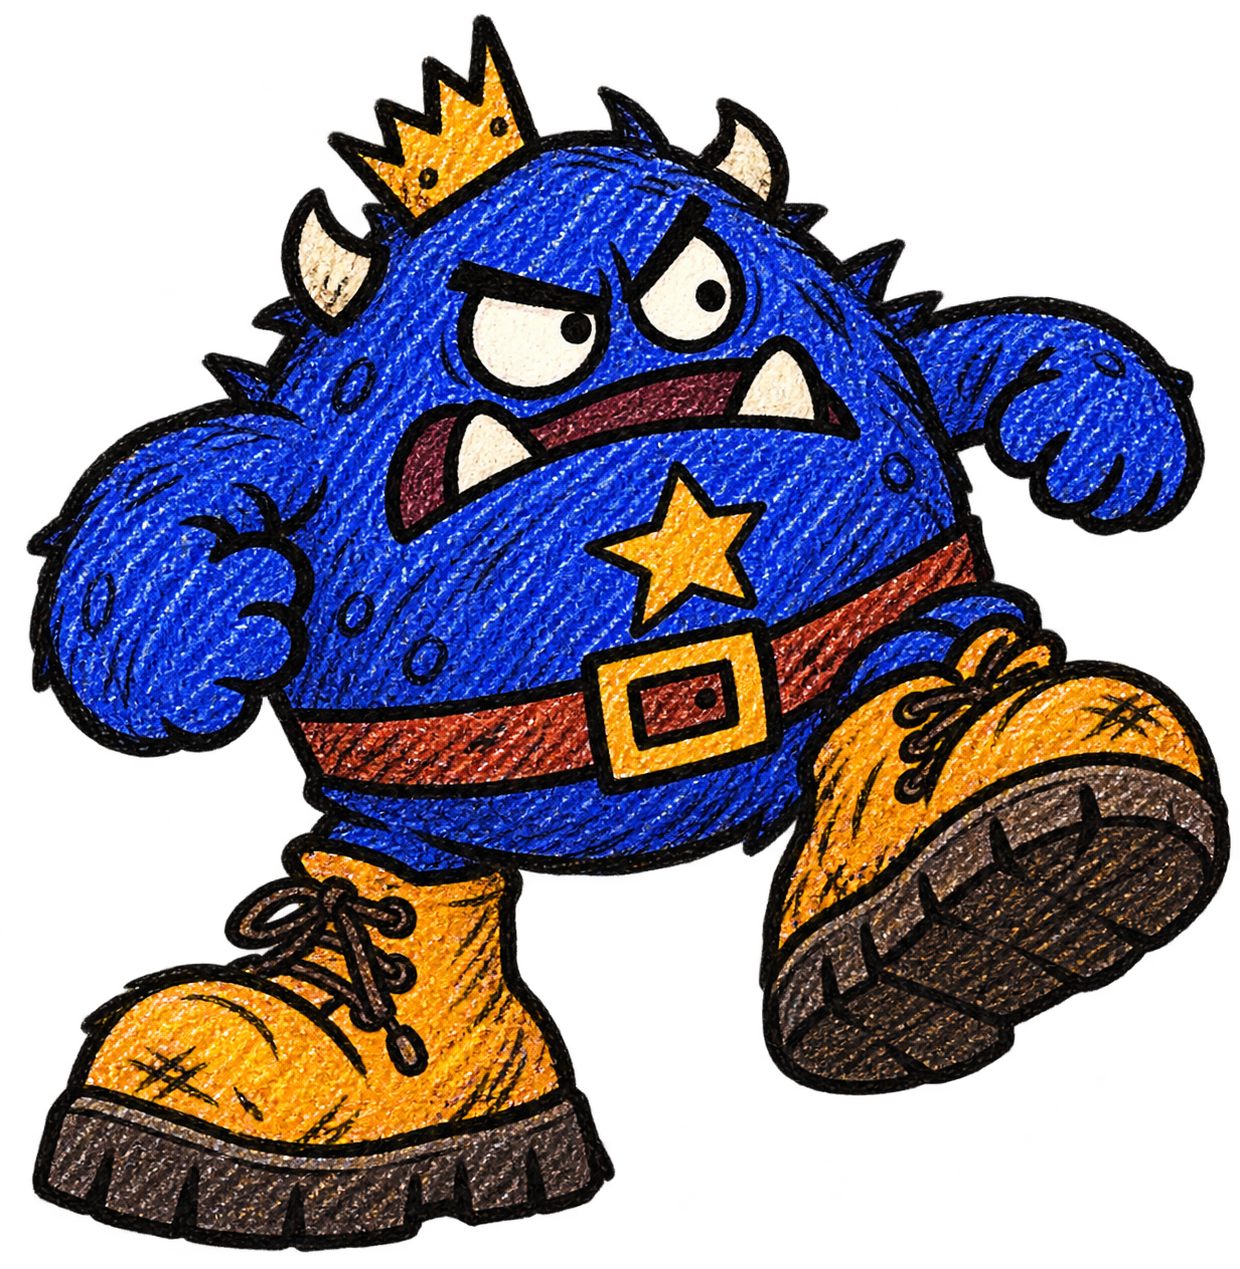
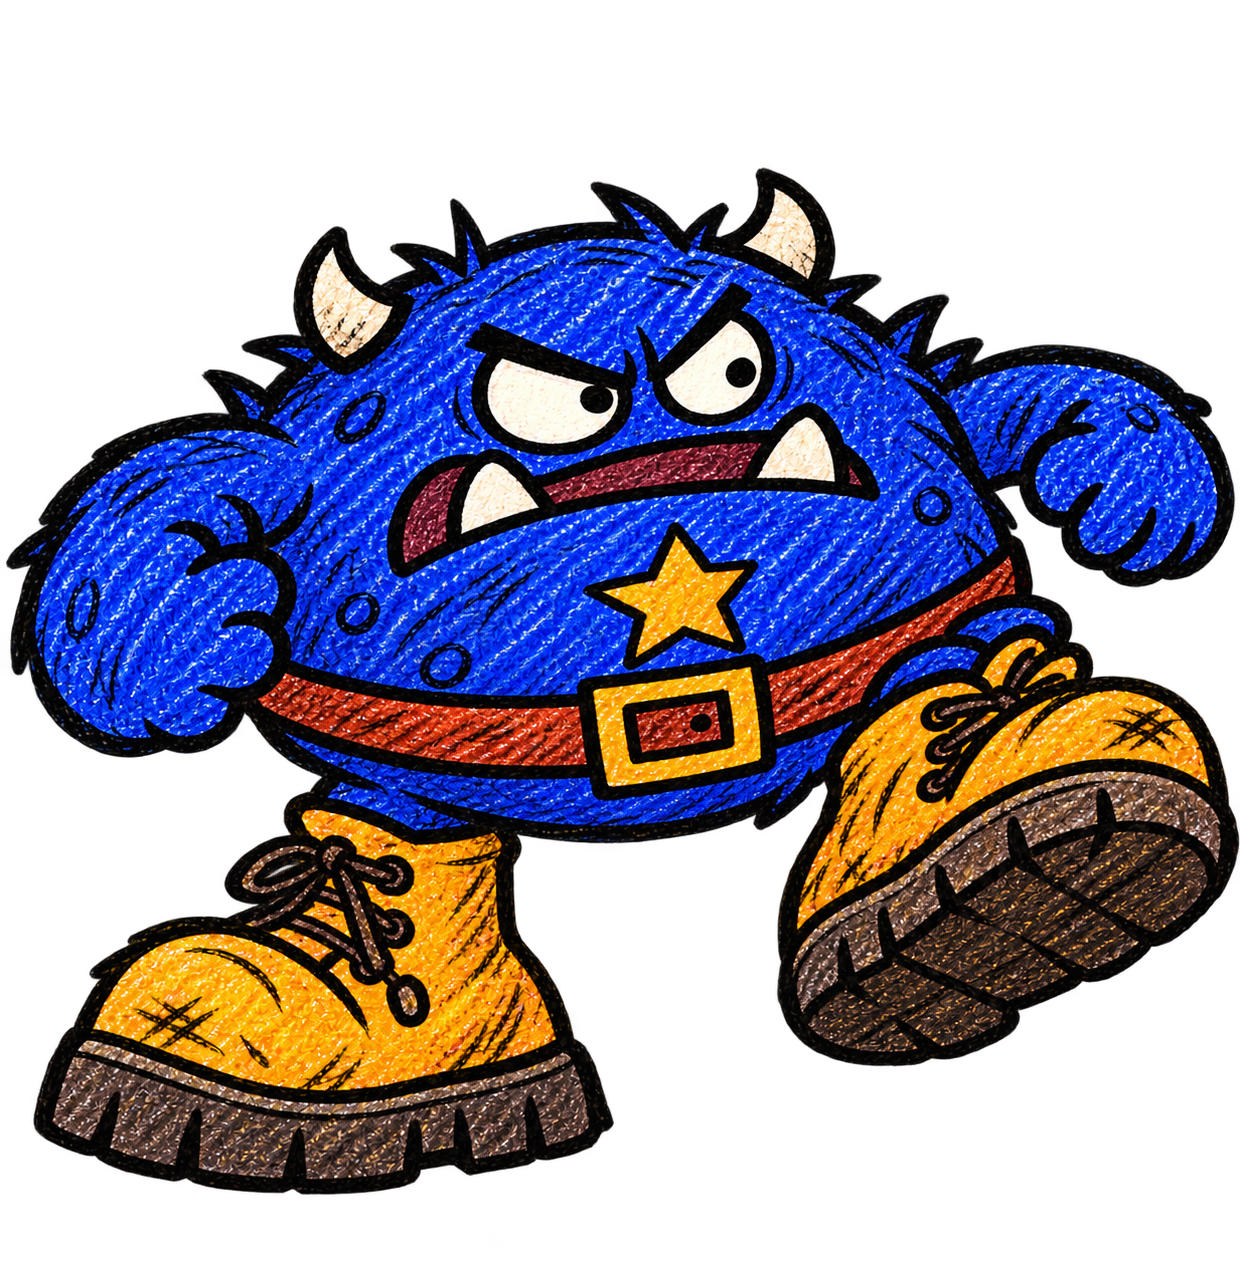
Give Bootstomp a wider silhouette and remove his crown

diff --git a/docs/BARON_BOOTSTOMP.md b/docs/BARON_BOOTSTOMP.md
@@ -2,7 +2,7 @@
 
 Status: character concept only. Wobblechomp and his assets remain intact; this boss is not wired into encounters yet.
 
-Artwork: `assets/art/concepts/baron-bootstomp.png`. Blue crayon monster, enormous yellow boots, tiny crown; use whole-character drawn animation frames when implemented.
+Artwork: `assets/art/concepts/baron-bootstomp.png`. Wide, horizontally oval blue crayon monster, enormous yellow boots, no crown or royal headwear; use whole-character drawn animation frames when implemented.
 
 ## Agreed fight direction
 
